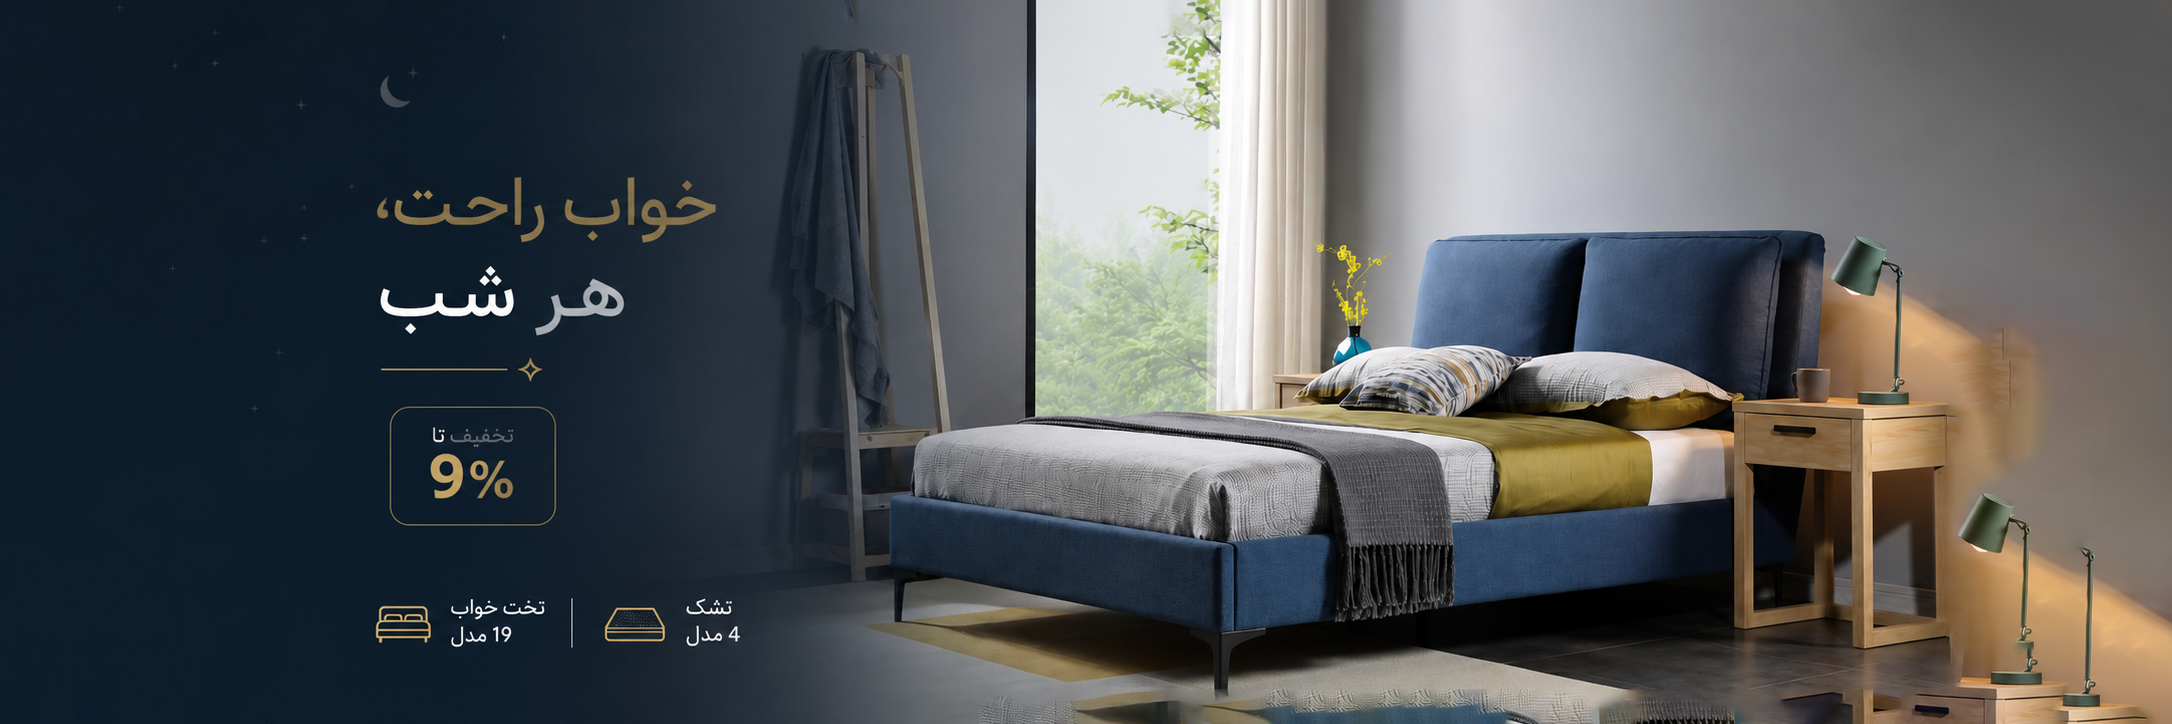
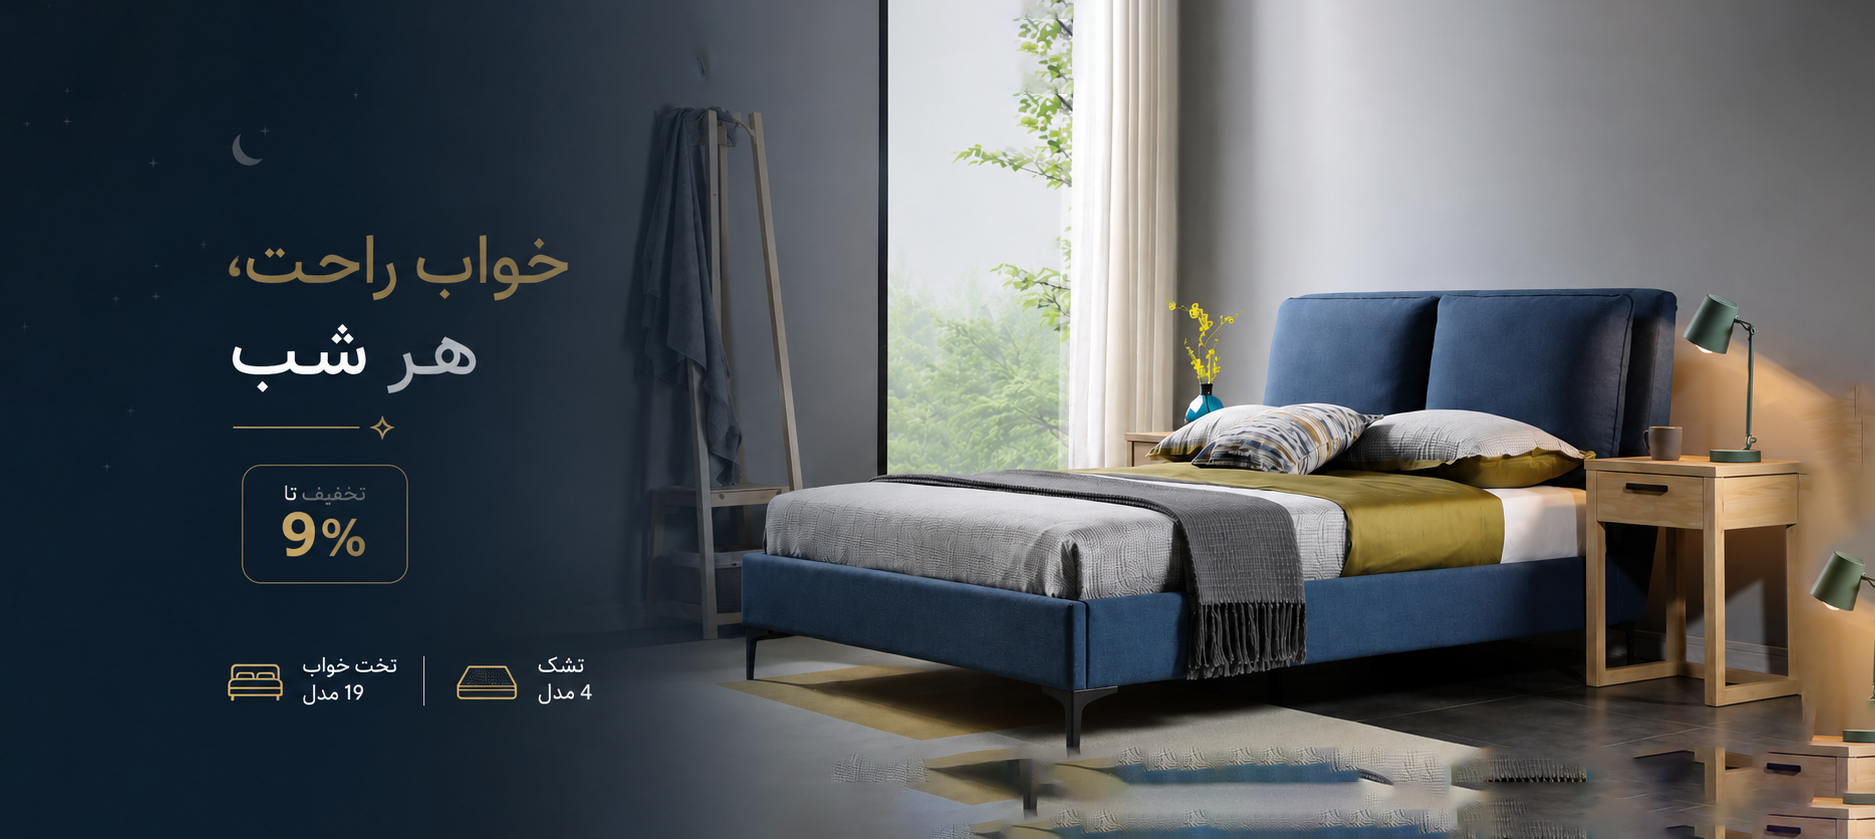
save

diff --git a/app/(home)/page.tsx b/app/(home)/page.tsx
@@ -63,7 +63,7 @@ export default function Home() {
 
   return (
     <div className='w-full overflow-hidden pb-20 pt-2'>
-      <MobileHero images={["/banners/hero.png","/banners/1.png"]} />
+      <MobileHero images={["/banners/hero.png", "/banners/hero1.png"]} />
       <div className='md:block hidden w-[85%] mx-auto mt-10'>
         <HomeBanner image={"/banners/hero.png"} link={banners[0].link} />
       </div>

diff --git a/components/header/SearchResultsGrid.tsx b/components/header/SearchResultsGrid.tsx
@@ -52,7 +52,7 @@ export default function SearchResultsGrid({
   return (
     <>
       {/* Product Grid */}
-      <div className='grid grid-cols-1 sm:grid-cols-2 md:grid-cols-3 lg:grid-cols-6 gap-6'>
+      <div className='grid grid-cols-2 md:grid-cols-3 lg:grid-cols-6 gap-6'>
         {products.map((product) => {
           const hasDiscount = product.discount > 0;
           const discountedPrice = hasDiscount

diff --git a/components/header/search/search-bar/SearchLists.tsx b/components/header/search/search-bar/SearchLists.tsx
@@ -38,7 +38,7 @@ export default function SearchList({
   };
 
   return (
-    <div onKeyDown={handleKeyDown}>
+    <div onKeyDown={handleKeyDown} className="">
       {results.map((item, index) => (
         <SearchResultItem
           key={item._id}
